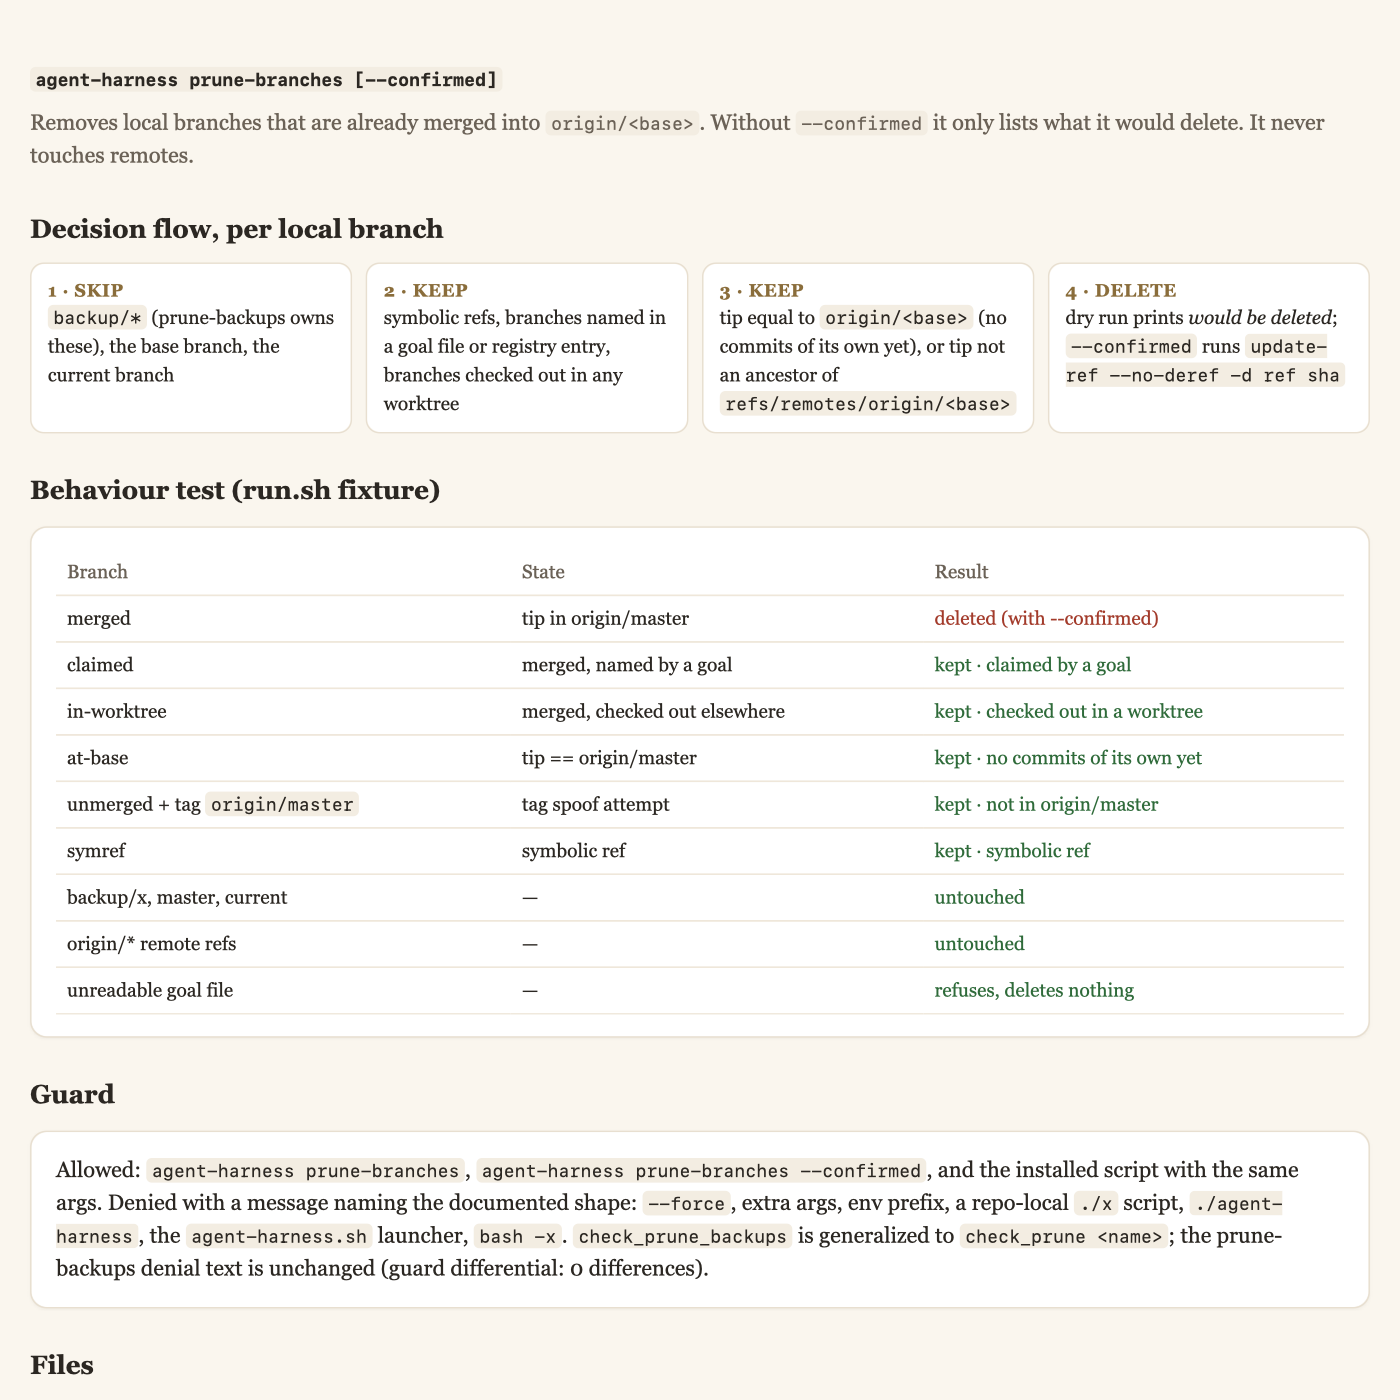
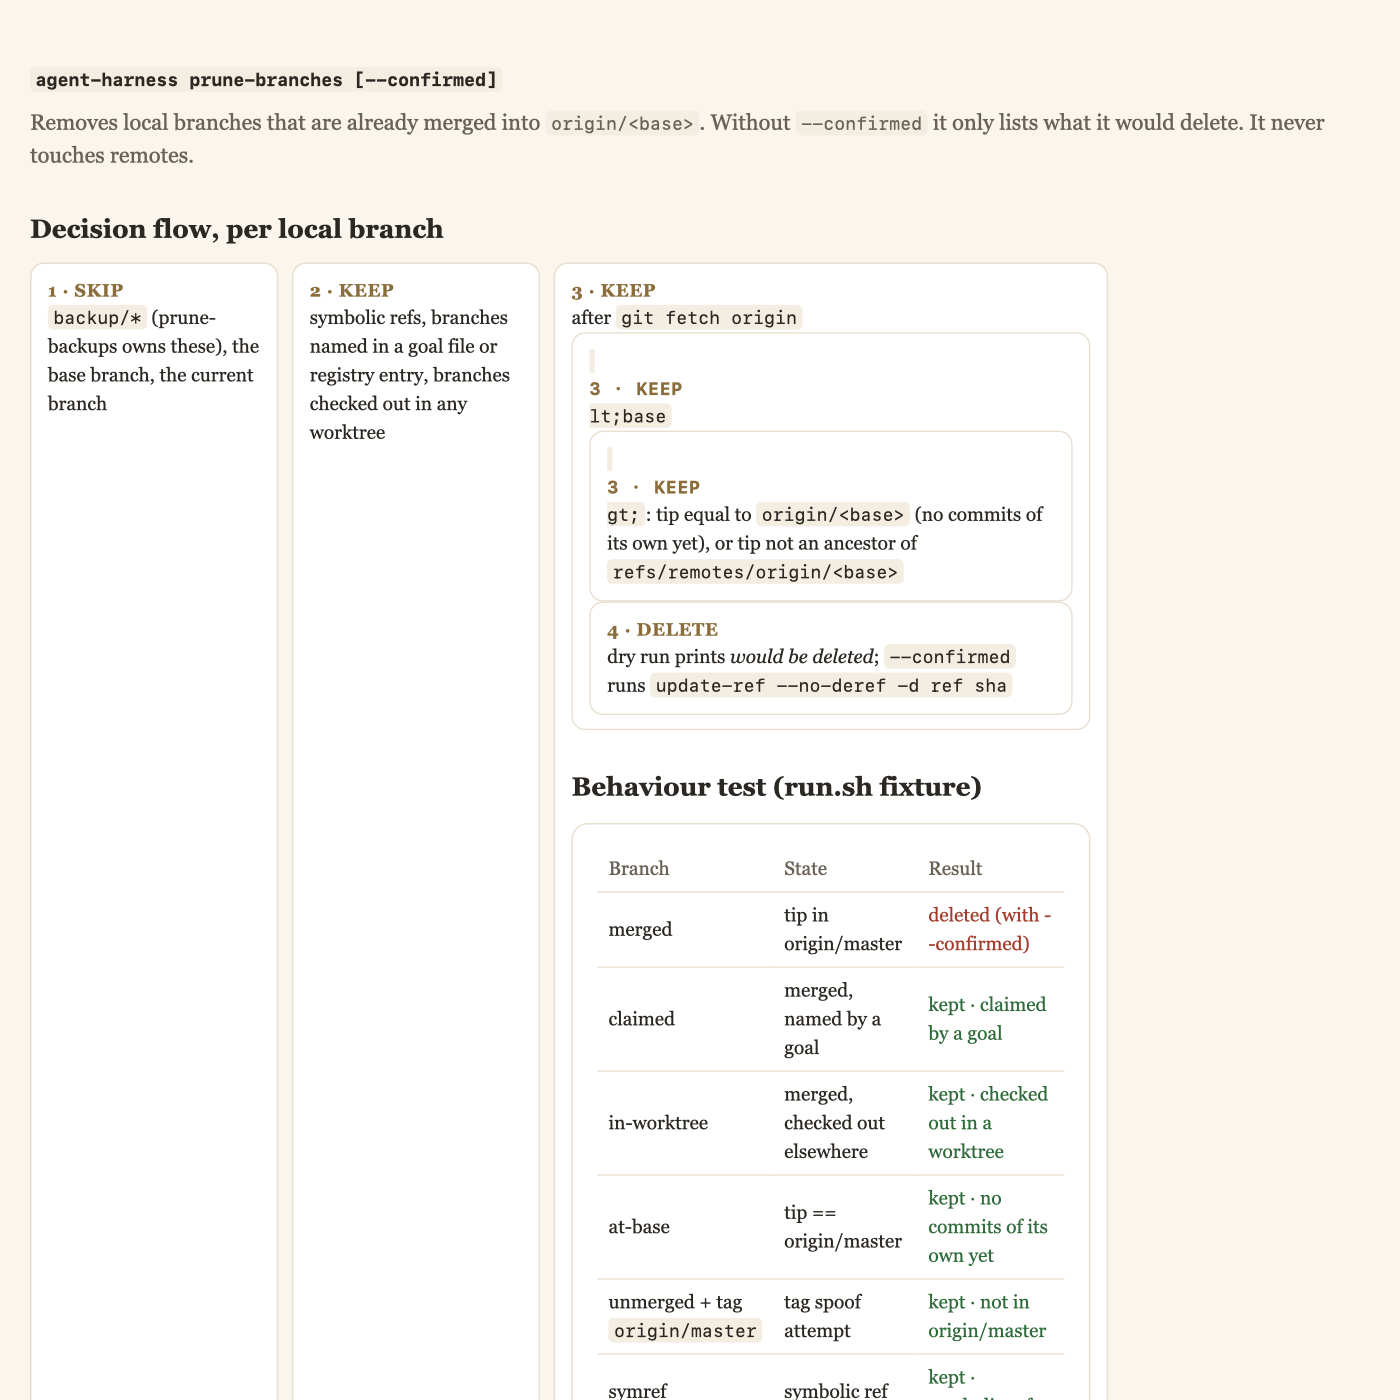
fix(harness): prune-branches fetches origin/<base> before trusting it as merge proof
Harness: fmflurry-harness@0.4.42
Harness-SHA: 5608f2a3cdbc4dd1a689893bab04b17618c54752-dirty
Session-Id: 03926c22-8319-4574-8268-e23f85b91385

diff --git a/docs/pr-reports/feat-harness-prune-branches.html b/docs/pr-reports/feat-harness-prune-branches.html
@@ -22,7 +22,7 @@ th{color:#6b6257;font-weight:normal}
 <div class="flow">
 <div class="step"><b>1 · skip</b><code>backup/*</code> (prune-backups owns these), the base branch, the current branch</div>
 <div class="step"><b>2 · keep</b>symbolic refs, branches named in a goal file or registry entry, branches checked out in any worktree</div>
-<div class="step"><b>3 · keep</b>tip equal to <code>origin/&lt;base&gt;</code> (no commits of its own yet), or tip not an ancestor of <code>refs/remotes/origin/&lt;base&gt;</code></div>
+<div class="step"><b>3 · keep</b>after <code>git fetch origin <div class="step"><b>3 · keep</b>lt;base<div class="step"><b>3 · keep</b>gt;</code>: tip equal to <code>origin/&lt;base&gt;</code> (no commits of its own yet), or tip not an ancestor of <code>refs/remotes/origin/&lt;base&gt;</code></div>
 <div class="step"><b>4 · delete</b>dry run prints <i>would be deleted</i>; <code>--confirmed</code> runs <code>update-ref --no-deref -d ref sha</code></div>
 </div>
 
@@ -37,6 +37,8 @@ th{color:#6b6257;font-weight:normal}
 <tr><td>symref</td><td>symbolic ref</td><td class="k">kept · symbolic ref</td></tr>
 <tr><td>backup/x, master, current</td><td>—</td><td class="k">untouched</td></tr>
 <tr><td>origin/* remote refs</td><td>—</td><td class="k">untouched</td></tr>
+<tr><td>forged local origin/master</td><td>agent rewrote the ref</td><td class="k">refreshed by fetch, branch kept</td></tr>
+<tr><td>origin unreachable</td><td>fetch fails</td><td class="k">refuses, deletes nothing</td></tr>
 <tr><td>unreadable goal file</td><td>—</td><td class="k">refuses, deletes nothing</td></tr>
 </table></div>
 
@@ -57,7 +59,7 @@ th{color:#6b6257;font-weight:normal}
 <div class="card">run.sh: 2686 passed, 75 failed. All 75 are the known baseline failures (diffed by name). npm test: same baseline failures. Plugin check OK. shellcheck clean on the new script.</div>
 
 <h2>Risks</h2>
-<div class="card">This is a new command that deletes branches. It only deletes local refs whose tip is reachable from the remote-tracking base, and never one that a goal or worktree claims. A deleted branch can be recreated from origin or the reflog. It is listed under Locked decisions for Florian.</div>
+<div class="card">This is a new command that deletes branches. It only deletes local refs whose tip is reachable from the remote-tracking base, and never one that a goal or worktree claims. A deleted branch can be recreated from origin or the reflog. The proof is fetched from origin, so a rewritten local remote-tracking ref proves nothing. Origin's URL is still the trust root, as for ship-merge and cleanup: repointing it is a harness-wide follow-up. It is listed under Locked decisions for Florian.</div>
 
 <section id="kpi-metrics" style="margin-top:28px">
 <h2 style="font-size:18px;margin:0 0 8px">Metrics</h2>

diff --git a/plugins/fmflurry-harness/CHANGELOG.md b/plugins/fmflurry-harness/CHANGELOG.md
@@ -4,7 +4,7 @@ Versions of the fmflurry-harness Cursor plugin. The number lives in `scripts/cur
 
 ## [0.4.43] - 2026-11-09
 
-- New `agent-harness prune-branches [--confirmed]` deletes local branches other than `backup/*` whose tip is already in `refs/remotes/origin/<base>` and that no goal file or registry entry claims. It keeps the base and current branch, branches checked out in a worktree, symbolic refs, and branches still at the tip of `origin/<base>`. It never touches remotes and only lists what it would do without `--confirmed`. The git guard allows exactly that shape.
+- New `agent-harness prune-branches [--confirmed]` deletes local branches other than `backup/*` whose tip is already in `origin/<base>`, fetched from origin first so a locally rewritten remote-tracking ref proves nothing, and that no goal file or registry entry claims. It keeps the base and current branch, branches checked out in a worktree, symbolic refs, and branches still at the tip of `origin/<base>`. It never touches remotes and only lists what it would do without `--confirmed`. The git guard allows exactly that shape.
 
 ## [0.4.42] - 2026-11-09
 

diff --git a/scripts/cursor-plugin/CHANGELOG.md b/scripts/cursor-plugin/CHANGELOG.md
@@ -4,7 +4,7 @@ Versions of the fmflurry-harness Cursor plugin. The number lives in `scripts/cur
 
 ## [0.4.43] - 2026-11-09
 
-- New `agent-harness prune-branches [--confirmed]` deletes local branches other than `backup/*` whose tip is already in `refs/remotes/origin/<base>` and that no goal file or registry entry claims. It keeps the base and current branch, branches checked out in a worktree, symbolic refs, and branches still at the tip of `origin/<base>`. It never touches remotes and only lists what it would do without `--confirmed`. The git guard allows exactly that shape.
+- New `agent-harness prune-branches [--confirmed]` deletes local branches other than `backup/*` whose tip is already in `origin/<base>`, fetched from origin first so a locally rewritten remote-tracking ref proves nothing, and that no goal file or registry entry claims. It keeps the base and current branch, branches checked out in a worktree, symbolic refs, and branches still at the tip of `origin/<base>`. It never touches remotes and only lists what it would do without `--confirmed`. The git guard allows exactly that shape.
 
 ## [0.4.42] - 2026-11-09
 
